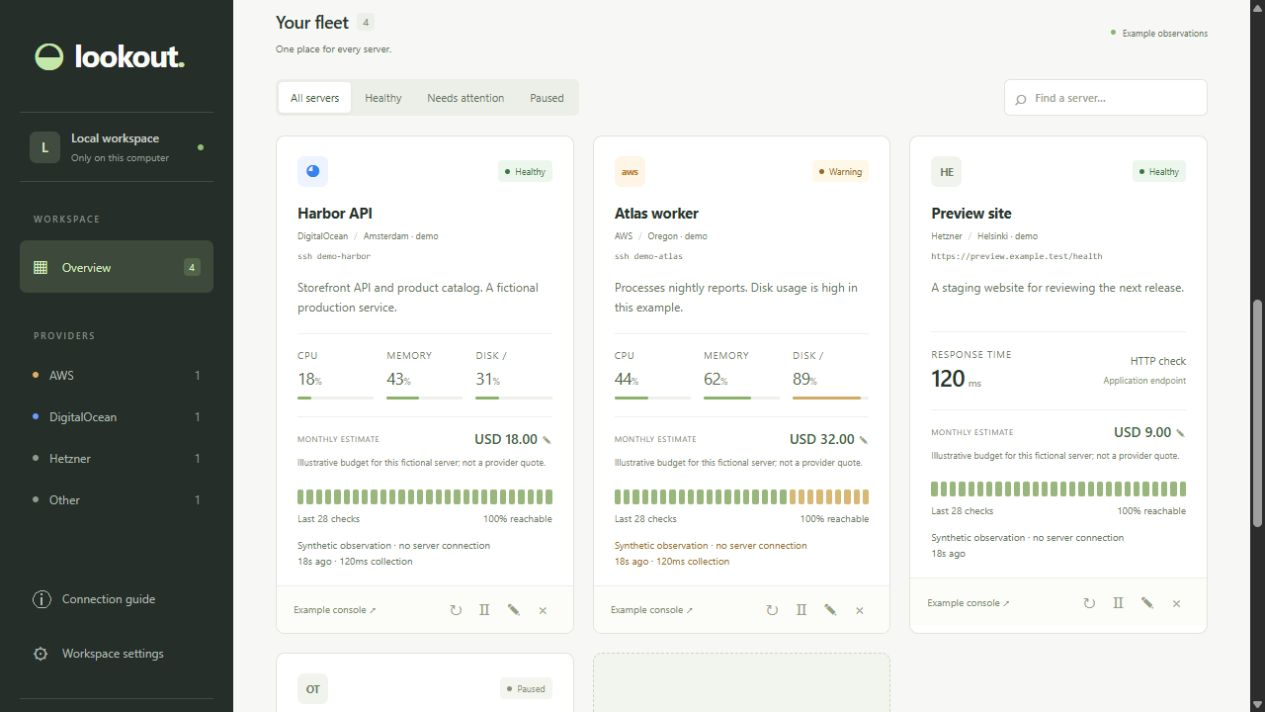
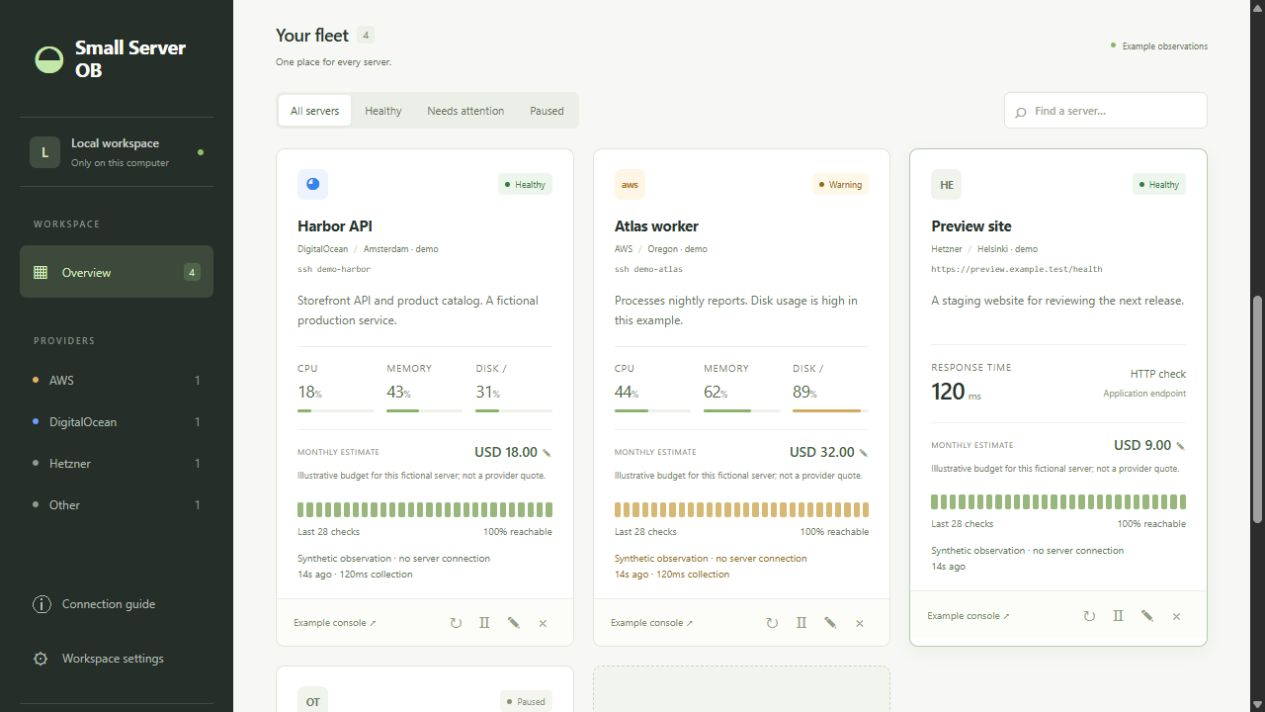
Rename Lookout to Small Server OB

diff --git a/public/index.html b/public/index.html
@@ -4,15 +4,16 @@
     <meta charset="UTF-8" />
     <meta name="viewport" content="width=device-width, initial-scale=1" />
     <meta name="description" content="Your servers, in sight. A private, local server observatory." />
-    <title>Lookout — Server observatory</title>
+    <title>Small Server OB — Server observatory</title>
     <link rel="icon" href="/favicon.svg" type="image/svg+xml" />
     <link rel="stylesheet" href="/style.css" />
     <script type="module" src="/app.js"></script>
   </head>
   <body>
     <aside class="sidebar">
-      <a class="brand" href="/" aria-label="Lookout home"
-        ><span class="brand-mark">◒</span> lookout<span class="brand-period">.</span></a
+      <a class="brand" href="/" aria-label="Small Server OB home"
+        ><span class="brand-mark" aria-hidden="true">◒</span
+        ><span class="brand-name">Small Server<br />OB</span></a
       >
       <div class="workspace">
         <span class="workspace-icon">L</span>
@@ -290,10 +291,11 @@ Host production-api
         trusting it. If your key is encrypted, unlock it in your SSH agent. Check that <code>python3</code> is
         available on the Linux host.
       </p>
-      <h3>03 &nbsp; Add it to Lookout</h3>
+      <h3>03 &nbsp; Add it to Small Server OB</h3>
       <p class="field-help">
-        Choose SSH and enter <code>production-api</code>. Lookout reads CPU activity, available memory, and
-        root-filesystem usage using a fixed Python program. It installs nothing and does not need sudo.
+        Choose SSH and enter <code>production-api</code>. Small Server OB reads CPU activity, available
+        memory, and root-filesystem usage using a fixed Python program. It installs nothing and does not need
+        sudo.
       </p>
       <div class="guide-note" id="threshold-note">
         CPU ≥ 90%, memory ≥ 85%, or disk ≥ 85% shows a warning. SSH collection time includes login and a short
@@ -416,8 +418,8 @@ Host production-api
           paste it into chat or server notes.
         </li>
         <li>
-          Copy <code>.env.example</code> to <code>.env</code> in the Lookout folder and set the token file
-          path:
+          Copy <code>.env.example</code> to <code>.env</code> in the Small Server OB folder and set the token
+          file path:
         </li>
       </ol>
       <pre>LOOKOUT_DO_TOKEN_FILE=C:/Users/YOUR_NAME/.config/lookout/do-token.txt</pre>
@@ -440,7 +442,7 @@ Host production-api
           Configure a local AWS profile named <code>lookout-billing</code>, preferably using AWS IAM Identity
           Center, and sign in using the AWS CLI.
         </li>
-        <li>Add these lines to Lookout’s <code>.env</code>:</li>
+        <li>Add these lines to Small Server OB’s <code>.env</code>:</li>
       </ol>
       <pre>
 LOOKOUT_AWS_BILLING=1
@@ -458,15 +460,15 @@ LOOKOUT_AWS_PROFILE=lookout-billing</pre>
       </p>
       <h3>Restart, then fetch</h3>
       <p class="field-help" id="billing-cache-help">
-        Restart Lookout and click <strong>Refresh billing</strong>. Queries run only when you request them;
-        successful results are cached locally for six hours. No cloud settings are changed by Lookout. Billing
-        may lag behind current usage.
+        Restart Small Server OB and click <strong>Refresh billing</strong>. Queries run only when you request
+        them; successful results are cached locally for six hours. No cloud settings are changed by Small
+        Server OB. Billing may lag behind current usage.
       </p>
       <div class="guide-note">
-        AWS Cost Explorer costs USD 0.01 per primary-view API request. Lookout requests one account total per
-        refresh, reuses fresh cache entries, and does not automatically fetch billing during health checks.
-        DigitalOcean shows account usage and balance; AWS shows unblended usage cost, not an invoice amount
-        due.
+        AWS Cost Explorer costs USD 0.01 per primary-view API request. Small Server OB requests one account
+        total per refresh, reuses fresh cache entries, and does not automatically fetch billing during health
+        checks. DigitalOcean shows account usage and balance; AWS shows unblended usage cost, not an invoice
+        amount due.
       </div>
       <p class="field-help">
         These are whole-account totals and can include resources outside your saved fleet. A management AWS

diff --git a/public/js/core/guidance.js b/public/js/core/guidance.js
@@ -9,5 +9,5 @@ export function updateGuidance(config, cacheHours = 6) {
   $('#http-help').textContent =
     `A 2xx response passes. Redirects or responses at least ${latencyMs / 1000}s need attention.`;
   $('#billing-cache-help').textContent =
-    `Restart Lookout and click Refresh billing. Queries run only when you request them; successful results are cached locally for ${cacheHours} hours. No cloud settings are changed by Lookout. Billing may lag behind current usage.`;
+    `Restart Small Server OB and click Refresh billing. Queries run only when you request them; successful results are cached locally for ${cacheHours} hours. No cloud settings are changed by Small Server OB. Billing may lag behind current usage.`;
 }

diff --git a/public/js/core/api.js b/public/js/core/api.js
@@ -10,7 +10,7 @@ export async function api(path, { method = 'GET', data } = {}) {
     ...(data !== undefined ? { body: JSON.stringify(data) } : {}),
   });
   if (!response.headers.get('content-type')?.includes('application/json'))
-    throw new Error('The local backend is unavailable. Restart Lookout and reload this page.');
+    throw new Error('The local backend is unavailable. Restart Small Server OB and reload this page.');
   const body = await response.json();
   if (!response.ok) {
     if (response.status === 403) token = null;

diff --git a/public/app.js b/public/app.js
@@ -53,7 +53,7 @@ async function refresh() {
   } catch {
     $('#connection-alert').hidden = false;
     $('#connection-alert').textContent =
-      'Local backend disconnected. Displayed readings are cached. Start Lookout again to resume monitoring.';
+      'Local backend disconnected. Displayed readings are cached. Start Small Server OB again to resume monitoring.';
     state.checking = false;
     state.servers.forEach((server) => {
       if (server.enabled && server.latest) server.status = 'stale';

diff --git a/public/styles/layout.css b/public/styles/layout.css
@@ -10,9 +10,9 @@
   z-index: 2;
 }
 .brand {
-  font-size: 31px;
+  font-size: 20px;
   font-weight: 700;
-  letter-spacing: -1.3px;
+  letter-spacing: -0.5px;
   display: flex;
   align-items: center;
   text-decoration: none;
@@ -25,8 +25,8 @@
   margin-right: 10px;
   line-height: 1;
 }
-.brand-period {
-  color: #c3e6a9;
+.brand-name {
+  line-height: 1.15;
 }
 .workspace {
   display: flex;

diff --git a/public/js/features/workspace.js b/public/js/features/workspace.js
@@ -32,7 +32,7 @@ export function initializeWorkspace(context) {
       );
       const link = document.createElement('a');
       link.href = url;
-      link.download = 'lookout-registry.json';
+      link.download = 'small-server-ob-registry.json';
       link.click();
       setTimeout(() => URL.revokeObjectURL(url), 1000);
       notify('Registry exported.');

diff --git a/public/styles/responsive.css b/public/styles/responsive.css
@@ -60,7 +60,7 @@
     margin: 0;
     font-size: 39px;
   }
-  .brand-period,
+  .brand-name,
   .workspace,
   .nav-label,
   .provider-nav,

diff --git a/README.md b/README.md
@@ -1,8 +1,10 @@
-# Lookout
+# Small Server OB
 
 A small, local server observatory. Keep servers from different providers in one calm dashboard, with notes, quick links, health checks, and a persistent local registry.
 
-![Lookout dashboard with fictional servers and illustrative budgets](docs/images/overview.jpg)
+Previously named Lookout. Existing registries and exports remain compatible. The `LOOKOUT_*` environment variables, `lookout.config.json` filename, and local API token header retain their original names so existing installations keep working.
+
+![Small Server OB dashboard with fictional servers and illustrative budgets](docs/images/overview.jpg)
 
 **All README images use fictional demo data.** No real server names, addresses, notes, metrics, or billing records are included.
 
@@ -11,7 +13,7 @@ A small, local server observatory. Keep servers from different providers in one 
 Requires **Node.js 22 or newer**. There is no build step. Install the AWS billing SDK dependencies once:
 
 ```powershell
-cd path/to/server-observatory
+cd path/to/small-server-ob
 npm ci
 npm start
 ```
@@ -65,9 +67,9 @@ Host production-api
   IdentityFile ~/.ssh/your-private-key
 ```
 
-Run `ssh production-api` yourself, verify the host key against your provider's trusted information, and confirm that `python3` works. Encrypted keys must already be unlocked through your SSH agent. Enter `production-api` in Lookout. A non-root account is sufficient for normal Linux `/proc` reads.
+Run `ssh production-api` yourself, verify the host key against your provider's trusted information, and confirm that `python3` works. Encrypted keys must already be unlocked through your SSH agent. Enter `production-api` in Small Server OB. A non-root account is sufficient for normal Linux `/proc` reads.
 
-Lookout uses a fixed read-only Python program over standard input. It reads `/proc/stat` twice over 0.4 seconds, `/proc/meminfo`, and root-filesystem usage. It does not install anything, request sudo, accept arbitrary commands, copy keys, or save passwords. It uses noninteractive SSH and strict host-key checking. Existing SSH configuration (including user-configured proxy/jump-host behavior) is trusted local configuration. The displayed SSH duration includes login and collection, **not** just network latency.
+Small Server OB uses a fixed read-only Python program over standard input. It reads `/proc/stat` twice over 0.4 seconds, `/proc/meminfo`, and root-filesystem usage. It does not install anything, request sudo, accept arbitrary commands, copy keys, or save passwords. It uses noninteractive SSH and strict host-key checking. Existing SSH configuration (including user-configured proxy/jump-host behavior) is trusted local configuration. The displayed SSH duration includes login and collection, **not** just network latency.
 
 ### Status meanings (default thresholds)
 
@@ -130,7 +132,7 @@ npm run docs:check
 npm run repo:check
 ```
 
-GitLab CI and GitHub Actions run these checks and the test suite on Node.js 22 and 24 after pushes and for merge/pull requests. GitLab shows test results in the pipeline's **Tests** tab; GitHub provides a separate JUnit artifact for each Node.js version. Reports are retained for seven days. Both pipelines use temporary registries, loopback services, and fictional fixtures; they require no server or billing credentials. Launch Lookout on your own computer with `npm start`; these pipelines verify the source and do not deploy the app.
+GitLab CI and GitHub Actions run these checks and the test suite on Node.js 22 and 24 after pushes and for merge/pull requests. GitLab shows test results in the pipeline's **Tests** tab; GitHub provides a separate JUnit artifact for each Node.js version. Reports are retained for seven days. Both pipelines use temporary registries, loopback services, and fictional fixtures; they require no server or billing credentials. Launch Small Server OB on your own computer with `npm start`; these pipelines verify the source and do not deploy the app.
 
 `repo:check` inspects the Git index for private runtime files and common credential patterns. When the local registry exists, it also checks tracked text for known server identifiers. Run it locally after staging changes and before pushing; CI cannot compare against a private registry it never receives. This is a focused guard, not a comprehensive secret scanner.
 
@@ -144,4 +146,4 @@ Run `npm run format` to apply the shared formatting rules to source and document
 
 ## Related project
 
-[Ops Compass](https://github.com/Deamenophobia/ops-compass) is a personal operations portal built on Backstage, with a service catalog, ownership, dependencies, runbooks, worklogs and read-only AI tools. It complements Lookout's lightweight server dashboard with broader service and operations context. The projects run independently; there is no built-in data synchronization.
+[Ops Compass](https://github.com/Deamenophobia/ops-compass) is a personal operations portal built on Backstage, with a service catalog, ownership, dependencies, runbooks, worklogs and read-only AI tools. It complements Small Server OB's lightweight server dashboard with broader service and operations context. The projects run independently; there is no built-in data synchronization.

diff --git a/docs/costs-and-billing.md b/docs/costs-and-billing.md
@@ -1,6 +1,6 @@
 # Costs and billing
 
-Lookout separates **monthly server estimates** from **provider-reported account usage**. Neither is a guaranteed invoice amount due. Prices, discounts, credits, taxes, bandwidth, backups, extra storage, public IP addresses, and other services can change what you pay.
+Small Server OB separates **monthly server estimates** from **provider-reported account usage**. Neither is a guaranteed invoice amount due. Prices, discounts, credits, taxes, bandwidth, backups, extra storage, public IP addresses, and other services can change what you pay.
 
 **Checking server health does not call Cost Explorer.** Opening or refreshing the dashboard and viewing saved estimates also make no billing requests. AWS billing is disabled by default. If you enable it, only **Refresh billing** can request new account usage; successful results are reused for six hours. One fresh AWS request per day would cost USD 0.30 over 30 days at the current primary-view API price. This is separate from the cost of running your servers.
 
@@ -24,7 +24,7 @@ LOOKOUT_DO_TOKEN_FILE=C:/Users/YOUR_NAME/.config/lookout/do-token.txt
 
 On Linux, use an absolute path such as `/home/YOUR_NAME/.config/lookout/do-token.txt`. Shell variables and `~` are not expanded in `.env`; see the [Linux setup guide](linux.md).
 
-Alternatively, provide `DIGITALOCEAN_TOKEN` in the environment of the Lookout process. The token is read only on the backend. It is not returned to the browser or included in exports or cached billing responses.
+Alternatively, provide `DIGITALOCEAN_TOKEN` in the environment of the Small Server OB process. The token is read only on the backend. It is not returned to the browser or included in exports or cached billing responses.
 
 The adapter calls `GET https://api.digitalocean.com/v2/customers/my/balance`. It shows month-to-date usage and the provider's month-to-date balance, which includes prior account balance. Negative balances represent credit. The provider's generation time is shown separately from retrieval time. See the [official billing API](https://docs.digitalocean.com/platform/billing/reference/api/).
 
@@ -53,7 +53,7 @@ aws configure sso --profile lookout-billing
 aws sso login --profile lookout-billing
 ```
 
-4. Add to Lookout's `.env`:
+4. Add to Small Server OB's `.env`:
 
 ```dotenv
 LOOKOUT_AWS_BILLING=1
@@ -66,15 +66,15 @@ Sources: [AWS credential setup](https://docs.aws.amazon.com/sdk-for-javascript/v
 
 ## Fetching and scope
 
-Restart Lookout after configuring credentials, then choose **Refresh billing**. One AWS profile and one DigitalOcean team are supported per process. Requests are explicit; health checks and opening the dashboard never trigger a billing API query.
+Restart Small Server OB after configuring credentials, then choose **Refresh billing**. One AWS profile and one DigitalOcean team are supported per process. Requests are explicit; health checks and opening the dashboard never trigger a billing API query.
 
 Successful responses are cached in ignored `data/billing-cache.json` for six hours and survive restart. Requests within the cache lifetime reuse the saved amounts. A new billing month invalidates the cache. Failed sources keep any prior amount labeled stale/unavailable, and missing or malformed amounts never become zero. Concurrent refreshes share the same work. Failed refreshes are throttled for one minute.
 
 AWS queries a single ungrouped current-month total of `UnblendedCost`, with one attempt and no automatic pagination. An unexpected partial response is treated as unavailable. This is usage cost for the account; a management account can include organization members. It does not allocate costs to the specific server cards or report your invoice balance due.
 
-AWS charges **USD 0.01 per primary-view Cost Explorer API request**, according to its [pricing page](https://aws.amazon.com/aws-cost-management/aws-cost-explorer/pricing/), checked 2026-10-22. Lookout does not enable granular resource-level billing features or change any cloud settings. Taxes and service pricing remain governed by the providers.
+AWS charges **USD 0.01 per primary-view Cost Explorer API request**, according to its [pricing page](https://aws.amazon.com/aws-cost-management/aws-cost-explorer/pricing/), checked 2026-10-22. Small Server OB does not enable granular resource-level billing features or change any cloud settings. Taxes and service pricing remain governed by the providers.
 
-DigitalOcean totals also cover the entire account, including resources outside Lookout. Never add account usage to the fleet estimate: these amounts overlap and cover different periods and scopes.
+DigitalOcean totals also cover the entire account, including resources outside Small Server OB. Never add account usage to the fleet estimate: these amounts overlap and cover different periods and scopes.
 
 ## Verification
 

diff --git a/docs/visual-testing.md b/docs/visual-testing.md
@@ -28,4 +28,10 @@ Desktop browser checks completed on 2026-10-22 in the in-app browser. The flows 
 
 The documentation captures show the overview, the fleet, and the editable cost dialog. The fleet image was replaced with a landscape capture showing its complete heading and three full server cards, including resource usage, notes, and costs. They are ordinary screenshots, not generated mockups. `docs/images/manifest.json` records their hashes and fictional-demo provenance. `npm run docs:check` validates the README image references, hashes, and—when the default local registry is present—checks documentation text and demo sources for its server identifiers. Hashes and text checks do not perform OCR; the privacy guarantee also depends on capture isolation and visual inspection.
 
-Responsive styles are retained, but this verification run covers the desktop viewport only. There is no automated pixel-diff regression suite and no claim of mobile browser coverage. Live SSH and paid cloud billing APIs are outside this screenshot run.
+The 2026-10-22 verification run covered the desktop viewport only. There is no automated pixel-diff regression suite and no claim of mobile browser coverage. Live SSH and paid cloud billing APIs are outside this screenshot run.
+
+## Rename verification — 2026-10-29
+
+Refreshed all three documentation screenshots from the isolated fictional demo after renaming the app to **Small Server OB**. Verified the new page title and sidebar label, the Needs attention filter, Harbor search, and editing Harbor's monthly estimate from 18 to 20 (fleet total 64 to 66), then restored 18. Billing remained disconnected. The overview, complete first row of fleet cards, and cost editor were visually inspected; the browser reported no console warnings or errors.
+
+Checked the logo at the default desktop width and a 1000-pixel viewport, plus the overview at a 390-pixel viewport. The logo fit the compact sidebar and the phone-width overview had no horizontal overflow. This is limited responsive layout coverage, not a full mobile interaction suite. Temporary viewport overrides were reset after testing. No real server or billing credentials were used.

diff --git a/docs/configuration.md b/docs/configuration.md
@@ -1,6 +1,8 @@
 # Configuration
 
-Copy `lookout.config.example.json` to `lookout.config.json`, change the values you need, and restart Lookout. Every field is optional; omitted values use defaults. Unknown keys, invalid types, and out-of-range values stop startup with an error before health collection begins.
+The project is now named **Small Server OB**. The `lookout.config.json` filename and `LOOKOUT_*` environment variables remain supported under their original names; no configuration or registry migration is needed.
+
+Copy `lookout.config.example.json` to `lookout.config.json`, change the values you need, and restart Small Server OB. Every field is optional; omitted values use defaults. Unknown keys, invalid types, and out-of-range values stop startup with an error before health collection begins.
 
 ```powershell
 Copy-Item lookout.config.example.json lookout.config.json
@@ -39,7 +41,7 @@ All numeric settings except `staleMultiplier` are integers. The effective thresh
 2. JSON configuration file.
 3. `PORT` and `LOOKOUT_DATA_DIR` environment overrides.
 
-`LOOKOUT_CONFIG` selects an alternative JSON file; a relative path is resolved from the working directory. If explicitly selected, a missing file is an error. With no override, Lookout checks `lookout.config.json` in the project directory. Relative `LOOKOUT_DATA_DIR` paths resolve from the working directory.
+`LOOKOUT_CONFIG` selects an alternative JSON file; a relative path is resolved from the working directory. If explicitly selected, a missing file is an error. With no override, Small Server OB checks `lookout.config.json` in the project directory. Relative `LOOKOUT_DATA_DIR` paths resolve from the working directory.
 
 The entry point loads the project's optional `.env` before resolving configuration. Existing process environment values take precedence over `.env` values. Billing opt-in variables and token/profile settings stay in that environment path; they are not accepted as JSON config keys.
 

diff --git a/docs/linux.md b/docs/linux.md
@@ -1,6 +1,6 @@
-# Run Lookout on Linux
+# Run Small Server OB on Linux
 
-Lookout runs on your Linux computer and opens in your browser. The same application supports Windows and Linux, including SSH metrics, HTTP/TCP checks, notes, links, saved configuration, and optional billing access.
+Small Server OB runs on your Linux computer and opens in your browser. The same application supports Windows and Linux, including SSH metrics, HTTP/TCP checks, notes, links, saved configuration, and optional billing access.
 
 ## Requirements
 
@@ -9,11 +9,11 @@ Lookout runs on your Linux computer and opens in your browser. The same applicat
 - An OpenSSH **client** on this computer for SSH checks. On Ubuntu/Debian, install it with `sudo apt install openssh-client` if `ssh -V` is unavailable. See [Ubuntu's OpenSSH documentation](https://ubuntu.com/server/docs/how-to/security/openssh-server/).
 - Python 3 on each monitored Linux server when collecting SSH metrics.
 
-The launcher checks the Node.js version. A distribution's default Node.js package may be too old, so check `node --version` before continuing. Run Lookout as your ordinary user so it uses that user's SSH configuration and agent.
+The launcher checks the Node.js version. A distribution's default Node.js package may be too old, so check `node --version` before continuing. Run Small Server OB as your ordinary user so it uses that user's SSH configuration and agent.
 
 ## Start
 
-From your cloned or extracted Lookout folder:
+From your cloned or extracted Small Server OB folder:
 
 ```sh
 npm ci
